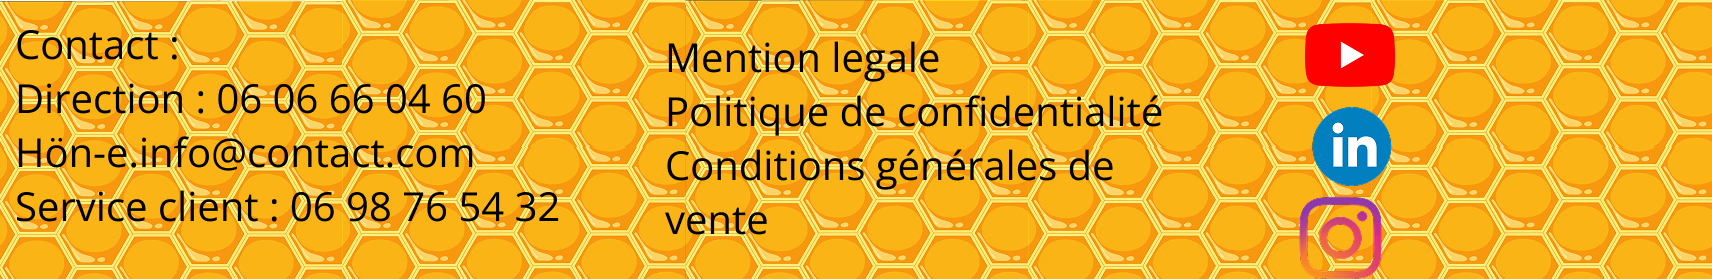
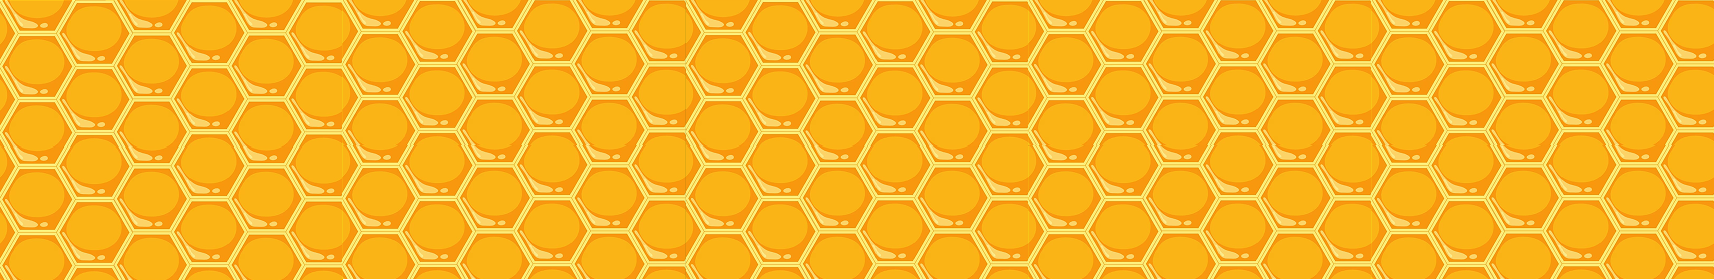
ajout baniere bas

diff --git a/saehone/Modele/Modele.html b/saehone/Modele/Modele.html
@@ -1,5 +1,6 @@
 <!DOCTYPE html>
 <html lang="en">
+
 <head>
     <meta charset="UTF-8">
     <meta http-equiv="X-UA-Compatible" content="IE=edge">
@@ -7,25 +8,56 @@
     <link rel="stylesheet" href="modele.css">
     <title>Modele</title>
 </head>
-<div class = "top"> 
-        <img id="fleche" src="https://cdn.discordapp.com/attachments/1414596633173426220/1442180863239393301/upscalemedia-transformed.png?ex=69247f18&is=69232d98&hm=85fdf9f1bc8e8ed2c2dbf59d2774bc5e4b5cf2e7b02d94a3e456f536c20949a0" alt="fleche retour">
-        <img id="a" src="https://cdn.discordapp.com/attachments/1414596633173426220/1441847876484595813/alveole_2.png?ex=692348f9&is=6921f779&hm=950eaaf7c32db064a662d35448a2999a8d6c8074e146daf6b163d2bfd5be8bb8" alt="blabla">        
-        
-        <img id="b" src="https://cdn.discordapp.com/attachments/1414596633173426220/1441847876484595813/alveole_2.png?ex=692348f9&is=6921f779&hm=950eaaf7c32db064a662d35448a2999a8d6c8074e146daf6b163d2bfd5be8bb8" alt="blabla">
-       <img id="logo" src="https://cdn.discordapp.com/attachments/1414596633173426220/1441885939898257439/erasebg-transformed.png?ex=69236c6d&is=69221aed&hm=9d91d35697832445c6f98da341c71b3067d7443ac4f5667981c7895e8ce3ee8e" alt="blabla">
-        <img id="c" src="https://cdn.discordapp.com/attachments/1414596633173426220/1441847876484595813/alveole_2.png?ex=692348f9&is=6921f779&hm=950eaaf7c32db064a662d35448a2999a8d6c8074e146daf6b163d2bfd5be8bb8" alt="blabla">
-       
-        <img id="d" src="https://cdn.discordapp.com/attachments/1414596633173426220/1441847876484595813/alveole_2.png?ex=692348f9&is=6921f779&hm=950eaaf7c32db064a662d35448a2999a8d6c8074e146daf6b163d2bfd5be8bb8" alt="blabla">
-       
-        
-       
-    </div>
+
 <body>
-    <div class = "fond"> 
-        <div class="logo-slogan">
-            <img class="logo"src="https://cdn.discordapp.com/attachments/1414596633173426220/1441885939898257439/erasebg-transformed.png?ex=69236c6d&is=69221aed&hm=9d91d35697832445c6f98da341c71b3067d7443ac4f5667981c7895e8ce3ee8e" alt="blabla">
-            <p id="slogan">Le savoir-faire des abeilles, <br> la touche de l'artisan.
+    <div class="top">
+        <img src="../image/goutte.png" alt="goutte de miel" class="goutte">
+
+        <!--<input type="image" class="back" name="bouton_1" id="fleche" src="../image/upscalemedia-transformed.png">-->
+        <a href="../home/home.html"><img class="imageretour" src="../image/upscalemedia-transformed.png"
+                alt="retour menu"></a>
+        <!--<img id="fleche" src="../image/upscalemedia-transformed.png" alt="fleche retour">-->
+        <a href="../home/home.html" id="a"><img class="alveole" src="../image/accueil.png" alt=""></a>
+        <a href=""><img class="alveole" src="../image/histoire.png" alt=""></a>
+
+        <a href="../home/home.html"><img src="../image/logo hon-e.png" class="logoc" alt=""></a>
+
+        <a href="../partenaires/partenaires.html"><img class="alveole" src="../image/Partenaire.png"
+                alt="partenaires"></a>
+
+        <a href="../produit/produit.html"><img class="alveole" src="../image/produit.png" alt="produits"></a>
+    </div>
+
+    <div class="fond">
+        <img class="logo" src="../image/Logohome.png" alt="blabla">
+
+        <img class="slogan" src="../image/blabla.png" alt="blabla">
+
+    </div>
+
+
+    <div class="bas">
+        <img src="../image/Bannière bas.png" alt="bannière du bas" class="bannierebas">
+        <div class="div2bas">
+            <div class="div1bas">
+                <a href="" class="textbas">Contact :</a>
+                <a href="" class="textbas">Direction : 06 06 66 04 60</a>
+                <a href="" class="textbas">Hön-e.info@contact.com</a>
+                <a href="" class="textbas">Service client : 06 98 76 54 32</a>
+            </div>
+            <div class="div1bas">
+                <a href="" class="textbas">mention légale</a>
+                <a href="" class="textbas">Politiques de confidentialités</a>
+                <a href="" class="textbas">Conditions générales de ventes</a>
+            </div>
+            <div class="div1bas">
+                <a href=""><img class="imagebas" src="../image/ytb.png" alt="produits"></a>
+                <a href=""><img class="imagebas" src="../image/inst.png" alt="produits"></a>
+                <a href=""><img class="imagebas" src="../image/lnd.png" alt="produits"></a>
+            </div>
+            
         </div>
     </div>
 </body>
-</html> >
+
+</html>

diff --git a/saehone/Modele/modele.css b/saehone/Modele/modele.css
@@ -1,67 +1,129 @@
-head{
+body {
     margin: 0px;
     padding: 0%;
 }
-.top{
-    display: flex;           /* Met les images sur la même ligne */
-    justify-content: center; /* Centre horizontalement toutes les images */
-    align-items: center;     /* Centre verticalement les images */
-    background-color: #FFB100;
-    height: 150px;
-    gap: 85px;               /* Espace entre les images */
-    border: 0;
-    
-}
 
-.fond{
-    background-color: #FFF7CD;
-    height: 800px;
-}
-head,img#fleche, img#a, img#b, img#logo, img#c, img#d{
+.top {
     display: flex;
-    width: 90px;             /* Largeur uniforme pour toutes les images */
-    height: auto; 
+    justify-content: center;
+    /* Centre horizontalement toutes les images */
+    align-items: center;
+    /* Centre verticalement les images */
+    background-color: #FFB100 ;
+    height: 150px;
+    justify-content: space-around;
+    /* Espace entre les images */ 
 }
 
-img#logo{
-    width: 250px; /* largeur maximale */
-    height: auto;     /* garde les proportions */
+
+
+
+.goutte {
+    position: absolute;
+    /*chevauchement*/
+    top: -20px;
+    width: 1400px;
+
+}
+
+.imageretour {
+    height: 100px;
+    width: 100px;
+    height: auto;
     display: block;
 }
-img#fleche{
-    width: 100px; /* largeur maximale */
-    height: auto;     /* garde les proportions */
-    display: block;
+
+.alveole {
+    margin-top: 30px;
 }
 
-.fond{
-    width: 100%;
-    display: flex;           /* active Flexbox */
-    justify-content: center; /* centre horizontalement */
-    align-items: self-start;     /* centre verticalement */
-}
-.logo {
-    width: 800px; /* largeur maximale */
-    height: auto;     /* garde les proportions */
-    display: block;   /* parfois utile pour supprimer les petits espaces */
-}   
-
-.top img#a:hover,img#b:hover , img#c:hover, img#d:hover {
+.alveole:hover {
     cursor: pointer;
-    
-    opacity: 0.5;                     /* opacité normale */
-    transition: opacity 0.3s ease;
+    opacity: 0.5;
+    /* opacité  */
+    transition: 0.3s ease;
 }
-#slogan {
-    font-family: 'Arial', sans-serif;
-    font-size: 24px;
-    color: #333333;
-    text-align: right;
-    
+
+.logoc {
+    height: 200px;
+    margin-top: 30px;
 }
-.logo-slogan {
+
+.fond {
+    background-color: #FFF7CD;
+    height: 1200px;
+    width: 100%;
     display: flex;
     flex-direction: column;
-    align-items: right;
-    gap: 0px; /* Espace entre le logo et le slogan */
+    align-items: center;
+}
+
+.logo {
+    width: 800px;
+    /* largeur maximale */
+    height: auto;
+    /* garde les proportions */
+}
+
+.slogan {
+    margin-bottom: 40px;
+    width: 1400px;
+}
+
+.section {
+    display: flex;
+    flex-direction: column;
+    align-items: flex-start;
+}
+
+.sectiontitre {
+    text-indent: 25px;
+    font-family: 'Arial', sans-serif;
+    font-size: 30px;
+    color: #333333;
+    margin: 0px;
+    margin-top: 10px;
+}
+
+
+
+.bas {
+    position: relative;
+    width: 100%;
+}
+
+.bannierebas {
+    width: 100%;
+    height: auto;
+    display: block; 
+}
+
+
+.div1bas {
+    display: flex;
+    flex-direction: column;
+    justify-content: left;
+    align-items: left;
+}
+.div2bas {
+    position: absolute;
+    top: 0;
+    left: 0;
+    width: 100%;
+    height: 100%;
+
+    display: flex;
+    flex-direction: row;
+    justify-content: space-around;
+    align-items: center;
+}
+
+.textbas {
+    font-size: 2.5em;
+    text-decoration: none;
+    color: black;
+}
+
+.imagebas{
+    width: 80%;
 }

diff --git a/saehone/home/home.html b/saehone/home/home.html
@@ -88,6 +88,25 @@
 
     <div class="bas">
         <img src="../image/Bannière bas.png" alt="bannière du bas" class="bannierebas">
+        <div class="div2bas">
+            <div class="div1bas">
+                <a href="" class="textbas">Contact :</a>
+                <a href="" class="textbas">Direction : 06 06 66 04 60</a>
+                <a href="" class="textbas">Hön-e.info@contact.com</a>
+                <a href="" class="textbas">Service client : 06 98 76 54 32</a>
+            </div>
+            <div class="div1bas">
+                <a href="" class="textbas">mention légale</a>
+                <a href="" class="textbas">Politiques de confidentialités</a>
+                <a href="" class="textbas">Conditions générales de ventes</a>
+            </div>
+            <div class="div1bas">
+                <a href=""><img class="imagebas" src="../image/ytb.png" alt="produits"></a>
+                <a href=""><img class="imagebas" src="../image/inst.png" alt="produits"></a>
+                <a href=""><img class="imagebas" src="../image/lnd.png" alt="produits"></a>
+            </div>
+            
+        </div>
     </div>
 </body>
 

diff --git a/saehone/home/home.css b/saehone/home/home.css
@@ -15,17 +15,6 @@ body {
     /* Espace entre les images */ 
 }
 
-
-.bas {
-    display: flex;
-    /* Met les images sur la même ligne */
-    justify-content: center;
-    /* Centre horizontalement toutes les images */
-    align-items: center;
-    /* Centre verticalement les images */
-    background-color: #FFB100;
-}
-
 .goutte {
     position: absolute;
     /*chevauchement*/
@@ -216,8 +205,43 @@ body {
     cursor: pointer;
 }
 
+.bas {
+    position: relative;
+    width: 100%;
+}
+
 .bannierebas {
+    width: 100%;
+    height: auto;
+    display: block; 
+}
+
+
+.div1bas {
     display: flex;
-    align-self: center;
-    height: 300px;
+    flex-direction: column;
+    justify-content: left;
+    align-items: left;
+}
+.div2bas {
+    position: absolute;
+    top: 0;
+    left: 0;
+    width: 100%;
+    height: 100%;
+
+    display: flex;
+    flex-direction: row;
+    justify-content: space-around;
+    align-items: center;
+}
+
+.textbas {
+    font-size: 2.5em;
+    text-decoration: none;
+    color: black;
+}
+
+.imagebas{
+    width: 80%;
 }
